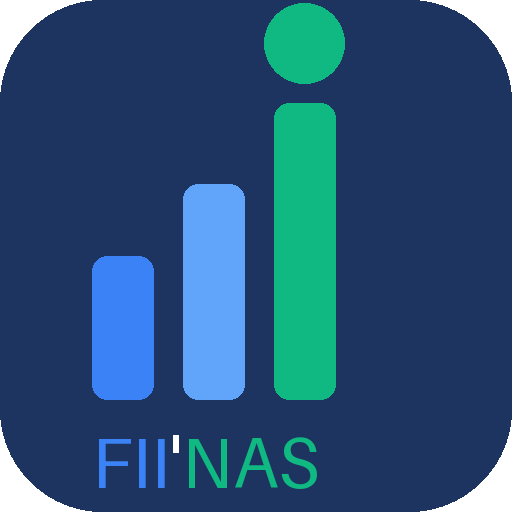
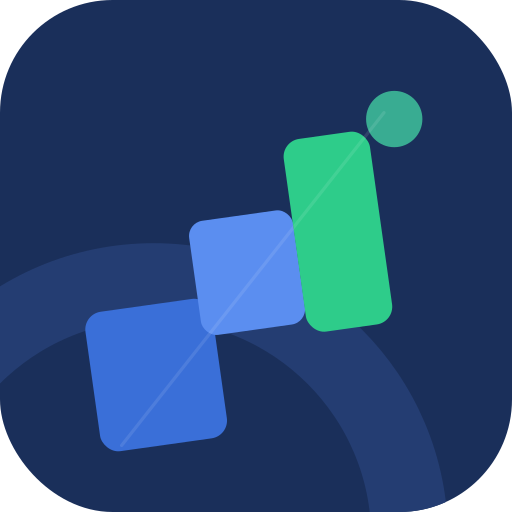
Add files via upload

diff --git a/index.html b/index.html
@@ -2611,17 +2611,23 @@ async function exportPDF(){
   doc.setFillColor(...BLUE);
   doc.rect(0,0,W,42,'F');
 
-  // Icône
-  doc.setFillColor(29,52,97);
-  doc.roundedRect(M,8,22,22,3,3,'F');
-  doc.setFillColor(59,130,246);
-  doc.rect(M+4,20,3,7,'F');
-  doc.setFillColor(96,165,250);
-  doc.rect(M+9,17,3,10,'F');
-  doc.setFillColor(...GREEN);
-  doc.rect(M+14,13,3,14,'F');
-  doc.setFillColor(...GREEN);
-  doc.circle(M+19,11,1.5,'F');
+  // Icône — nouvelle version (blocs géométriques abstraits)
+  const ix=M, iy=8, is=22; // icon x, y, size
+  // Fond bleu foncé arrondi
+  doc.setFillColor(26,47,90);
+  doc.roundedRect(ix,iy,is,is,3,3,'F');
+  // Bloc gauche — bleu acier (bas)
+  doc.setFillColor(58,111,216);
+  doc.roundedRect(ix+2.5,iy+11,5.5,8,1,1,'F');
+  // Bloc milieu — bleu clair (moyen)
+  doc.setFillColor(91,142,240);
+  doc.roundedRect(ix+9,iy+7.5,5,9.5,1,1,'F');
+  // Bloc droit — vert (haut, plus grand)
+  doc.setFillColor(46,204,138);
+  doc.roundedRect(ix+15.5,iy+3.5,4,15,1,1,'F');
+  // Point accent vert clair
+  doc.setFillColor(78,255,184);
+  doc.circle(ix+19,iy+2.5,1.2,'F');
 
   // Texte FII'NAS
   doc.setFont('helvetica','bold');
